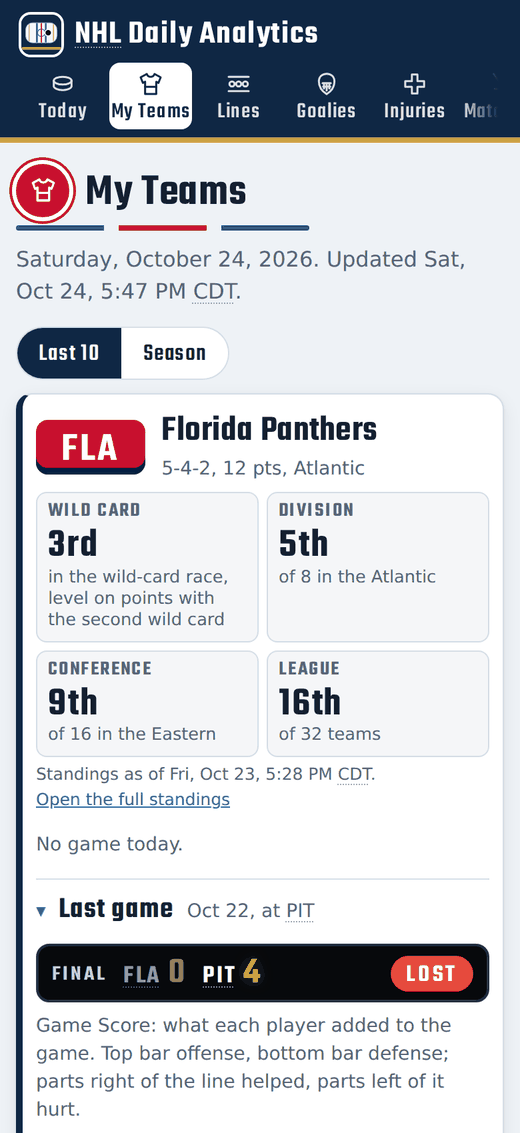
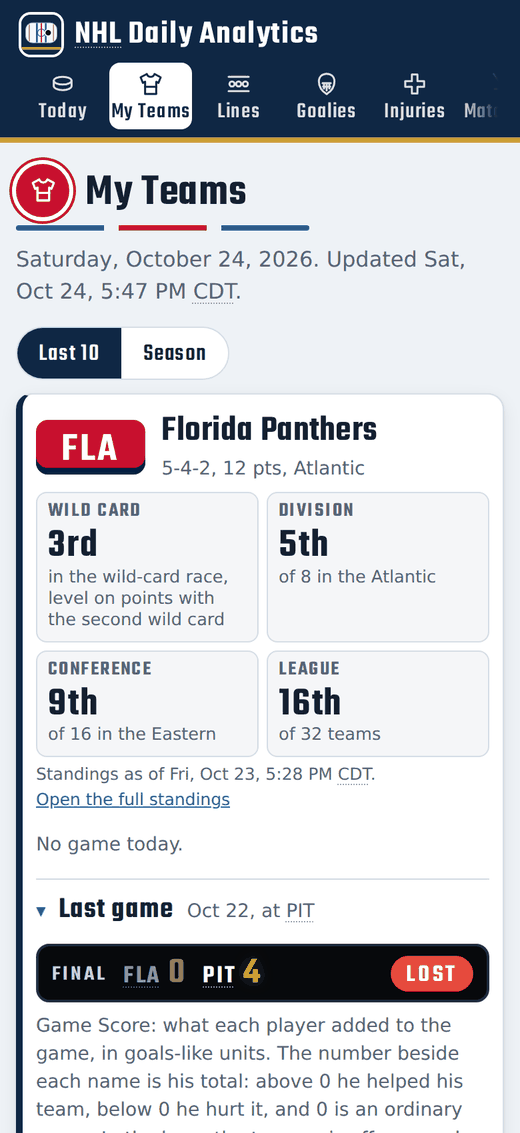
1.10.1: label and explain the Game Score number beside each player
The last-game chart gets a heading row: Player, Game Score (with its
definition) over the numbers, and Hurt and Helped at the two ends of the
bars. Every number now explains itself on hover or tap (a skater's total as
offense plus defense, a goalie's goals saved above expected with the goals
and expected goals behind it), the goalie group says what its number is, the
line under the score says what above and below 0 mean, and the Numbers table
spells out Game Score. The browser check covers the heading and the
definitions and fails on 1.10.0.

Claude-Session: https://claude.ai/code/session_01XqpNinG5Pf12J6dGNoaPvS

Changed region(s): [[0.0615, 0.8959, 0.8923, 0.9885]]

diff --git a/app/js/app.js b/app/js/app.js
@@ -4,7 +4,7 @@
    stats window) stay in this browser (localStorage). */
 (function () {
   "use strict";
-  const APP_VERSION = "1.10.0";
+  const APP_VERSION = "1.10.1";
   const REPO = "https://github.com/JBrady0850/nhl-daily-analytics";
   const PUBLIC_URL = "https://jbrady0850.github.io/nhl-daily-analytics/";
   const KEY = "nda:v1";
@@ -591,14 +591,14 @@
   }
   function gsRow(p, lo, span) {
     const say = (lab, v) => `${lab} ${GS_PARTS.map(([, n], i) => `${n.toLowerCase()} ${signed(v[i])}`).join(", ")}`;
-    return `<div class="gs-row"><span class="gs-name">${pname(p.name, p.id)}</span><b class="gs-val">${signed(p.gs)}</b>
+    return `<div class="gs-row"><span class="gs-name">${pname(p.name, p.id)}</span><b class="gs-val" data-tip="Game Score ${signed(p.gs)}: offense ${signed(p.o.reduce((a, b) => a + b, 0))} plus defense ${signed(p.d.reduce((a, b) => a + b, 0))}. Above 0 he helped his team; below 0 he hurt it.">${signed(p.gs)}</b>
       <div class="gs-bars" style="--z:${((0 - lo) / span * 100).toFixed(2)}%" role="img" aria-label="${esc(p.name)}: ${signed(p.gs)}. ${esc(say("Offense", p.o))}. ${esc(say("Defense", p.d))}.">
       <span class="gs-trk o">${gsTrack(p.o, "offense", lo, span)}</span><span class="gs-trk d">${gsTrack(p.d, "defense", lo, span)}</span></div></div>`;
   }
   function gsGoalie(g, lo, span) {
     if (typeof g.gsax !== "number") return `<div class="gs-row"><span class="gs-name">${pname(g.name, g.id)}</span><b class="gs-val">-</b><span class="small muted">${esc(g.shots)} shots, ${esc(g.ga)} goals against</span></div>`;
     const w = Math.abs(g.gsax) / span * 100, left = (g.gsax >= 0 ? 0 - lo : 0 - lo + g.gsax) / span * 100;
-    return `<div class="gs-row"><span class="gs-name">${pname(g.name, g.id)}</span><b class="gs-val">${signed(g.gsax)}</b>
+    return `<div class="gs-row"><span class="gs-name">${pname(g.name, g.id)}</span><b class="gs-val" data-tip="Goals saved above expected: ${signed(g.gsax)}. He allowed ${esc(g.ga)} goals on shots worth ${esc(g.xga)} expected goals; above 0 he stopped more than an average goalie would.">${signed(g.gsax)}</b>
       <div class="gs-bars gk" style="--z:${((0 - lo) / span * 100).toFixed(2)}%" role="img" aria-label="${esc(g.name)}: ${signed(g.gsax)} goals saved above expected on ${esc(g.shots)} shots.">
       <span class="gs-trk g"><i class="gs-seg gs-gk ${g.gsax >= 0 ? "endp" : "endn"}" style="left:${left.toFixed(2)}%;width:${w.toFixed(2)}%" data-tip="Goals saved above expected: ${signed(g.gsax)} (${esc(g.xga)} expected, ${esc(g.ga)} allowed, ${esc(g.shots)} shots)"></i></span></div></div>`;
   }
@@ -620,15 +620,17 @@
     const ticks = [lo, 0, hi].filter((v, i, a) => a.indexOf(v) === i).map(v => `<span style="left:${((v - lo) / span * 100).toFixed(2)}%">${v === 0 ? "0" : signed(v, 1)}</span>`).join("");
     const cells = v => v.map(x => td(signed(x), "n")).join("");
     const rows = sk.map(p => `<tr>${td(esc(p.name))}${td(esc(p.pos))}${td(p.toi == null ? "-" : num(p.toi, 1), "n hm")}${td(`<b>${signed(p.gs)}</b>`, "n")}${cells(p.o)}${cells(p.d)}</tr>`).join("");
-    const hd = thT("Player", "The player. His name in the chart above opens his NHL.com page.") + thT("Pos", TIPS.heads.Pos) + thT("TOI", "Time on ice in the game, minutes.", "n hm") + thT("GS", TIPS.gs["Game Score"], "n") +
+    const hd = thT("Player", "The player. His name in the chart above opens his NHL.com page.") + thT("Pos", TIPS.heads.Pos) + thT("TOI", "Time on ice in the game, minutes.", "n hm") + thT("Game Score", TIPS.gs["Game Score"], "n") +
       ["Production", "Play driving", "Special teams", "Usage"].map(n => thT("O " + n.split(" ")[0], `Offense, ${n.toLowerCase()}: ${TIPS.gs[n]}`, "n")).join("") +
       ["Production", "Play driving", "Special teams", "Usage"].map(n => thT("D " + n.split(" ")[0], `Defense, ${n.toLowerCase()}: ${TIPS.gs[n]}`, "n")).join("");
     const note = t.inputs === "full" ? "" : `<p class="small muted">Play driving, special teams and usage were not available for this game (the shift charts or shot values were missing), so only production is scored.</p>`;
     return `<details class="lastgame" open><summary><span class="lg-title">Last game</span> <span class="small muted">${esc(shortDay(t.date))}, ${t.home ? "vs" : "at"} ${esc(t.opp)}</span></summary>
       ${strip}
-      <p class="small muted gs-how">Game Score: what each player added to the game. Top bar offense, bottom bar defense; parts right of the line helped, parts left of it hurt.</p>
+      <p class="small muted gs-how">Game Score: what each player added to the game, in goals-like units. The number beside each name is his total: above 0 he helped his team, below 0 he hurt it, and 0 is an ordinary game. In the bars, the top one is offense and the bottom one defense; parts right of the line helped, parts left of it hurt.</p>
       <div class="gs-legend">${key}<span class="gs-key" data-tip="${esc(TIPS.gs.Goalie)}"><i class="gs-sw gs-gk"></i>Goalie: saved above expected</span></div>
-      <div class="gs-chart">${group("Forwards", fw.map(p => gsRow(p, lo, span)).join(""))}${group("Defense", dm.map(p => gsRow(p, lo, span)).join(""))}${group("Goalie", gk.map(g => gsGoalie(g, lo, span)).join(""))}
+      <div class="gs-chart"><div class="gs-head"><span class="gs-name">Player</span><span class="gs-val" data-tip="${esc(TIPS.gs["Game Score"])}">Game Score</span>
+      <div class="gs-sides" style="--z:${((0 - lo) / span * 100).toFixed(2)}%"><span class="hurt">&#9666; Hurt</span><span class="helped">Helped &#9656;</span></div></div>
+      ${group("Forwards", fw.map(p => gsRow(p, lo, span)).join(""))}${group("Defense", dm.map(p => gsRow(p, lo, span)).join(""))}${group("Goalie: goals saved above expected", gk.map(g => gsGoalie(g, lo, span)).join(""))}
       <div class="gs-axis"><span class="gs-name"></span><span class="gs-val"></span><div class="gs-ticks">${ticks}</div></div></div>
       ${note}
       <details class="more"><summary>Numbers</summary>${tbl(hd, rows, "gs-table")}</details>

diff --git a/app/js/glossary.js b/app/js/glossary.js
@@ -29,7 +29,7 @@ window.NDA_GLOSSARY = [
   ["P/GP, SOG/GP", "Per game played. A line's figure adds each player's own rate, so a player with fewer games is not understated."],
   ["MOST POINTS / MOST SHOTS", "The team's line with the highest combined points per game, or shots on goal per game, in the chosen window. TIED when lines are level."],
   ["GTD / DTD / IR", "Game-time decision / day to day / injured reserve, as Daily Faceoff lists them."],
-  ["Last game and Game Score (My Teams)", "Each team you follow shows its most recent finished game: the final score, then every player's Game Score, what he added to the game in goals-like units (0 is an ordinary game). The top bar is offense and the bottom bar defense, each split into production, play driving, special teams and usage; parts right of the line helped, parts left of it hurt. Goalies show goals saved above expected. It is this app's own model, built on the public Game Score formula by Dom Luszczyszyn (Hockey Graphs, 2016), from NHL play-by-play and shift charts with expected goals from MoneyPuck.com. A game appears the morning after it is played, once the expected goals are published."],
+  ["Last game and Game Score (My Teams)", "Each team you follow shows its most recent finished game: the final score, then every player's Game Score, the number beside his name: what he added to the game in goals-like units. Above 0 he helped his team, below 0 he hurt it, and 0 is an ordinary game. The top bar is offense and the bottom bar defense, each split into production, play driving, special teams and usage; parts right of the line helped, parts left of it hurt. Goalies show goals saved above expected. It is this app's own model, built on the public Game Score formula by Dom Luszczyszyn (Hockey Graphs, 2016), from NHL play-by-play and shift charts with expected goals from MoneyPuck.com. A game appears the morning after it is played, once the expected goals are published."],
   ["Final score and Win or Loss", "When a game is over by the time of an update, its card shows the final score on a scoreboard strip under the pick banner, with WIN or LOSS for the pick. The pick is the one made before puck drop; a later update never changes it. Games that end after the 4:45 PM update show in Results the next morning."],
   ["My pick", "The team the model picks to win the game: the side with the higher win probability. Every game card shows it on a gold banner with a star, as hockey names the first of its three stars after a game."],
   ["Injury list (Injuries tab)", "Every injured player the injury reports name, by team: GTD game-time decision, DTD day to day, OUT out, IR injured reserve, LTIR long-term injured reserve, IR-NR injured non-roster, SUSP suspended. Mostly ESPN's public injury report; Daily Faceoff's injured lists fill in for today's teams. Estimated return dates are estimates and often move."],

diff --git a/app/css/style.css b/app/css/style.css
@@ -189,10 +189,16 @@ table.standings tr.cut td { border-top: 3px solid var(--redline); }
 .gs-legend { display: flex; flex-wrap: wrap; gap: 4px 14px; margin: 0 0 6px; font-size: .86rem; color: var(--muted); }
 .gs-key { display: inline-flex; align-items: center; gap: 6px; cursor: help; }
 .gs-sw { display: inline-block; width: 12px; height: 12px; border-radius: 3px; }
-.gs-row, .gs-axis { display: grid; grid-template-columns: minmax(6.5em, 10.5em) 3.4em minmax(0, 1fr); align-items: center; gap: 0 8px; }
+.gs-head, .gs-row, .gs-axis { display: grid; grid-template-columns: minmax(6.5em, 10.5em) 4.6em minmax(0, 1fr); align-items: center; gap: 0 8px; }
 .gs-row { padding: 3px 0; border-bottom: 1px solid color-mix(in srgb, var(--line) 55%, transparent); }
 .gs-name { font-size: .88rem; line-height: 1.15; overflow-wrap: anywhere; }
 .gs-val { font: 600 .9rem/1 var(--mono); text-align: right; font-variant-numeric: tabular-nums; }
+.gs-head { padding: 4px 0 5px; border-bottom: 1px solid var(--line); font: 600 .98rem/1.05 var(--display); letter-spacing: .08em; text-transform: uppercase; color: var(--muted); }
+.gs-head > .gs-val { font: inherit; cursor: help; }
+.gs-sides { position: relative; height: 1.1em; }
+.gs-sides > span { position: absolute; top: 0; white-space: nowrap; }
+.gs-sides > .hurt { left: 0; } .gs-sides > .helped { right: 0; }
+.gs-sides::before { content: ""; position: absolute; top: -2px; bottom: -6px; left: var(--z); width: 1px; background: var(--muted); opacity: .55; }
 .gs-grp { font: 600 .98rem/1 var(--display); letter-spacing: .1em; text-transform: uppercase; color: var(--muted); margin: 10px 0 2px; }
 .gs-bars { position: relative; height: 22px; }
 .gs-bars.gk { height: 14px; }
@@ -212,8 +218,8 @@ table.standings tr.cut td { border-top: 3px solid var(--redline); }
 table.gs-table td:first-child { min-width: 10em; }
 /* phones: the name and value on one line, the bars across the full width below */
 @media (max-width: 640px) {
-  .gs-row, .gs-axis { grid-template-columns: minmax(0, 1fr) auto; row-gap: 3px; }
-  .gs-bars, .gs-ticks { grid-column: 1 / -1; }
+  .gs-head, .gs-row, .gs-axis { grid-template-columns: minmax(0, 1fr) auto; row-gap: 3px; }
+  .gs-bars, .gs-ticks, .gs-sides { grid-column: 1 / -1; }
   .gs-axis > .gs-name, .gs-axis > .gs-val { display: none; }
 }
 @media print { .pickline::before { box-shadow: none; } .pk-star { box-shadow: 0 0 0 2px var(--star-ink); } }

diff --git a/app/sw.js b/app/sw.js
@@ -1,7 +1,7 @@
 /* Offline support for the app shell. Files come from the network first, so a
    connected device always gets the newest version and the newest data; the cached
    copy is used only when offline. Bump VERSION when the file list changes. */
-const VERSION = "nda-v1.10.0";
+const VERSION = "nda-v1.10.1";
 const FILES = ["./", "index.html", "css/style.css", "js/glossary.js", "js/app.js", "data/latest.js",
   "manifest.webmanifest", "icon.svg", "icon-180.png", "icon-192.png", "icon-512.png", "icon-maskable-512.png", "qr-app.png"];
 self.addEventListener("install", e => e.waitUntil(caches.open(VERSION).then(c => c.addAll(FILES)).then(() => self.skipWaiting())));

diff --git a/tests/ui_smoke.py b/tests/ui_smoke.py
@@ -182,6 +182,11 @@ LAST_GAME_JS = """(ab) => {
     tableRows: lg.querySelectorAll('table.gs-table tbody tr').length,
     heads: [...lg.querySelectorAll('table.gs-table th')].every(h => !!h.dataset.tip),
     credit: !!lg.querySelector('a[href="https://moneypuck.com"]'),
+    head: (() => { const h = lg.querySelector('.gs-chart > .gs-head'); if (!h) return null;
+      const v = h.querySelector('.gs-val'); return [h.querySelector('.gs-name').textContent.trim(), v.textContent.trim(), !!v.dataset.tip,
+        h.querySelector('.hurt').textContent.trim(), h.querySelector('.helped').textContent.trim()]; })(),
+    valTips: rows.every(r => !!r.querySelector('.gs-val').dataset.tip),
+    tableScore: [...lg.querySelectorAll('table.gs-table th')].some(h => h.textContent.trim() === 'Game Score'),
     labels: [...lg.querySelectorAll('.gs-bars')].every(b => (b.getAttribute('aria-label') || '').length > 10)};
 }"""
 
@@ -206,7 +211,9 @@ def check_last_game(pg, sample, ab):
             "segs": nseg, "segTips": True,
             "keys": [["Production", True], ["Play driving", True], ["Special teams", True], ["Usage", True], ["Goalie: saved above expected", True]],
             "result": [{"W": "Won", "L": "Lost", "OTL": "OT loss"}[t["result"]], True],
-            "scores": [f"{away} {sc[away]}", f"{home} {sc[home]}"], "tableRows": len(t["skaters"]), "heads": True, "credit": True, "labels": True}
+            "scores": [f"{away} {sc[away]}", f"{home} {sc[home]}"], "tableRows": len(t["skaters"]), "heads": True, "credit": True, "labels": True,
+            # the number beside each name is labeled and defined (John, 2026-10-26)
+            "head": ["Player", "Game Score", True, "\u25c2 Hurt", "Helped \u25b8"], "valTips": True, "tableScore": True}
     out = [f"my teams {ab} last game {k}: {got.get(k)} (want {v})" for k, v in want.items() if got.get(k) != v]
     if not got.get("open"):
         out.append(f"my teams {ab}: the last game starts closed")
